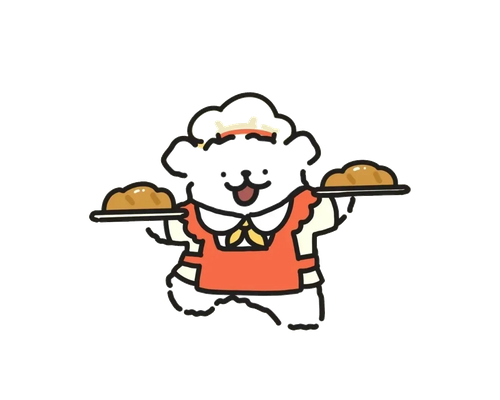
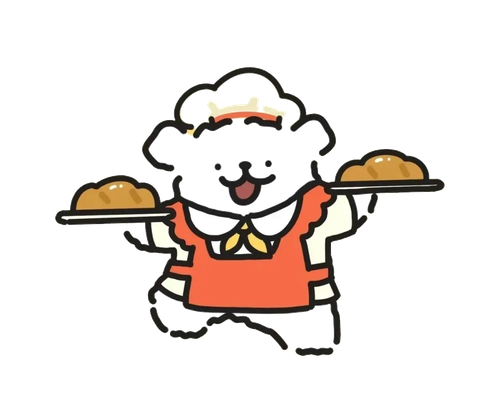
style: 分享卡片图小熊放大撑满；分享描述改为'很香的～你知道的～很美的～好吃的～'

Changed region(s): [[0.09, 0.15, 0.9, 0.9]]

diff --git a/frontend/index.html b/frontend/index.html
@@ -6,11 +6,11 @@
     <title>思思大王的菜单</title>
     <!-- 微信/社交分享卡片 -->
     <meta property="og:title" content="思思大王的菜单" />
-    <meta property="og:description" content="每天一道好菜，记录生活的味道" />
+    <meta property="og:description" content="很香的～你知道的～很美的～好吃的～" />
     <meta property="og:image" content="https://www.xiaoyuming.top/share-card.png?v=2" />
     <meta property="og:site_name" content="思思大王的菜单" />
     <meta property="og:type" content="website" />
-    <meta name="description" content="每天一道好菜，记录生活的味道 - 思思大王的菜单" />
+    <meta name="description" content="很香的～你知道的～很美的～好吃的～" />
     <link rel="icon" type="image/png" href="/favicon.png" />
     <link rel="icon" type="image/png" sizes="192x192" href="/favicon-192.png" />
     <link rel="apple-touch-icon" href="/favicon-180.png" />
